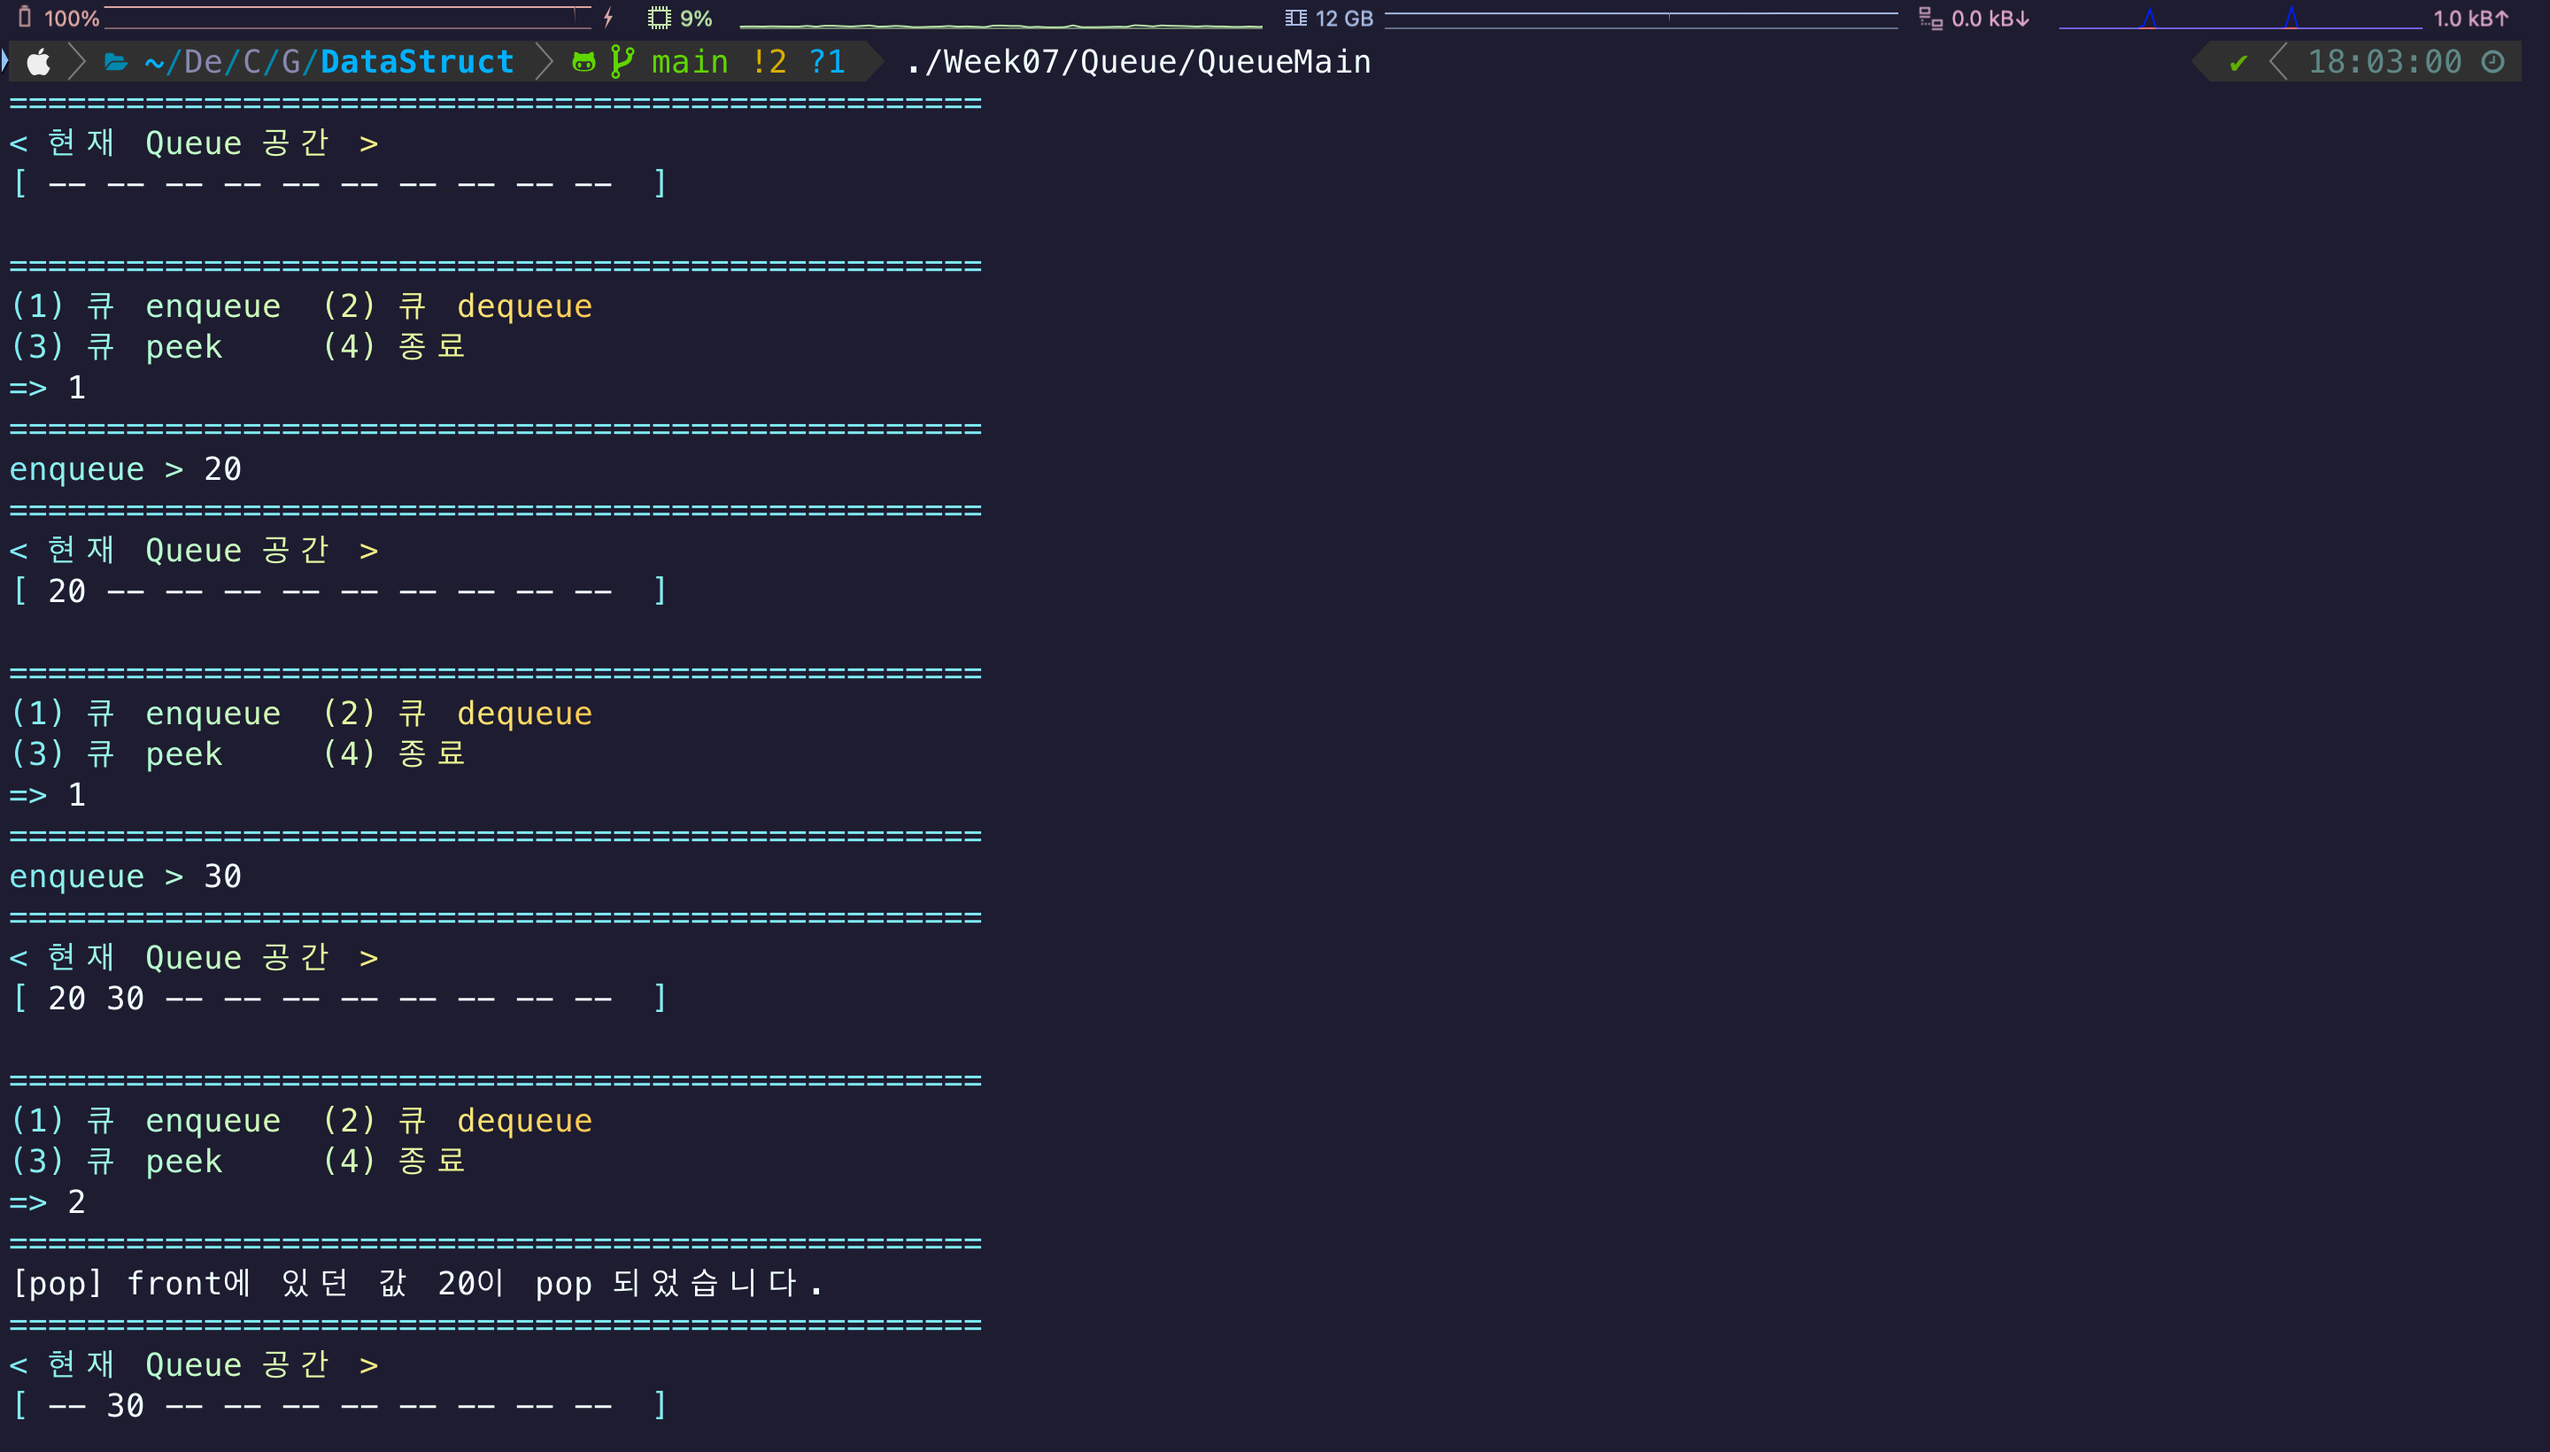
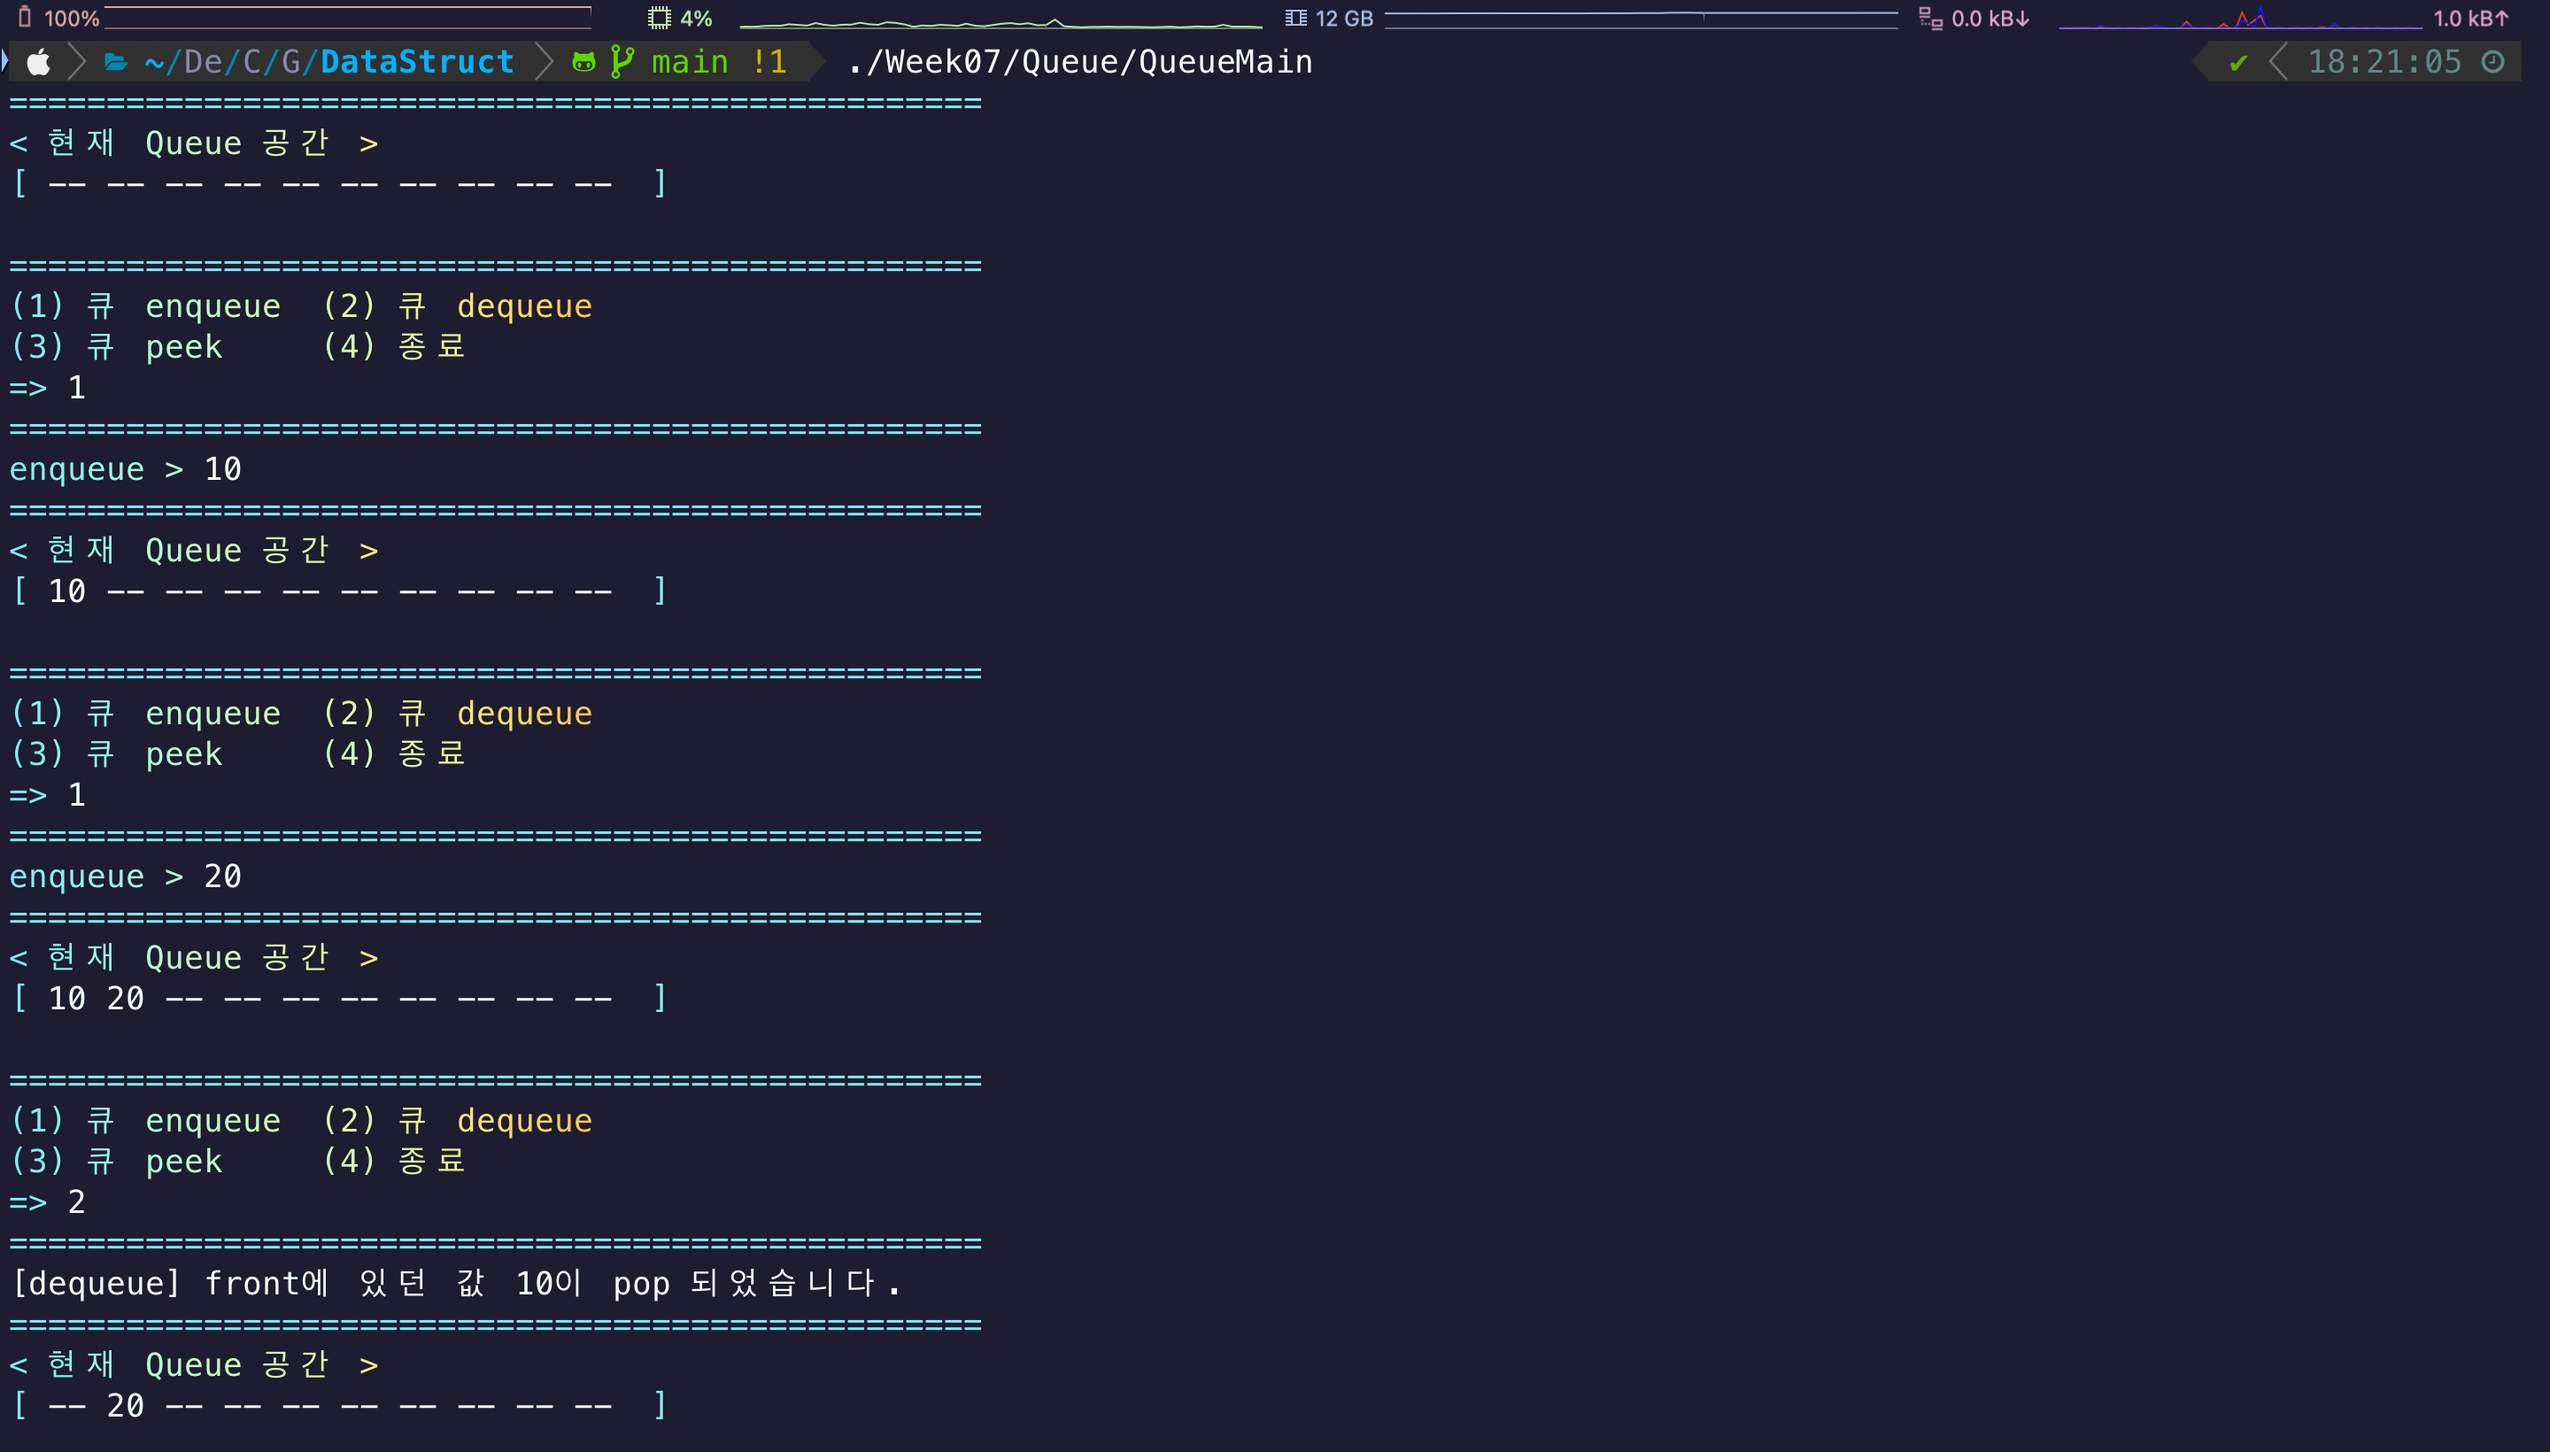
자료구조 Queue 구현 수정

Changed region(s): [[0.0, 0.8707, 0.3438, 0.9018], [0.3438, 0.0311, 0.5312, 0.0622], [0.875, 0.0, 0.9062, 0.0311]]

diff --git a/Week07/Queue/QueueMain.c b/Week07/Queue/QueueMain.c
@@ -24,7 +24,7 @@ int main(void) {
             enqueue(&queue, val); break;
         case 2:
             front = dequeue(&queue);
-            if (front != QUEUE_ERROR) { getLine(50); printf("[pop] front에 있던 값 %d이 pop 되었습니다.\n", front); } break;
+            if (front != QUEUE_ERROR) { getLine(50); printf("[dequeue] front에 있던 값 %d이 pop 되었습니다.\n", front); } break;
         case 3:
             front = peek(&queue);
             if (front != QUEUE_ERROR) { getLine(50); printf("[peek] front에 있던 값 %d이 peek 되었습니다.\n", front); } break;

diff --git a/README.md b/README.md
@@ -88,11 +88,11 @@
 
 ---
 
-## 5. Circular Queue Implimentation (<u>Week07</u>)
+## 6. Circular Queue Implimentation (<u>Week07</u>)
 > [ Queue example ]
 >
 > ![Picture](./Week07/Queue.png)
-### 5-1) Queue ADT structure
+### 6-1) Queue ADT structure
 > [ Queue ADT Struct & Functions ]
 >```c
 >typedef int elem_int; // elem_int 정의
